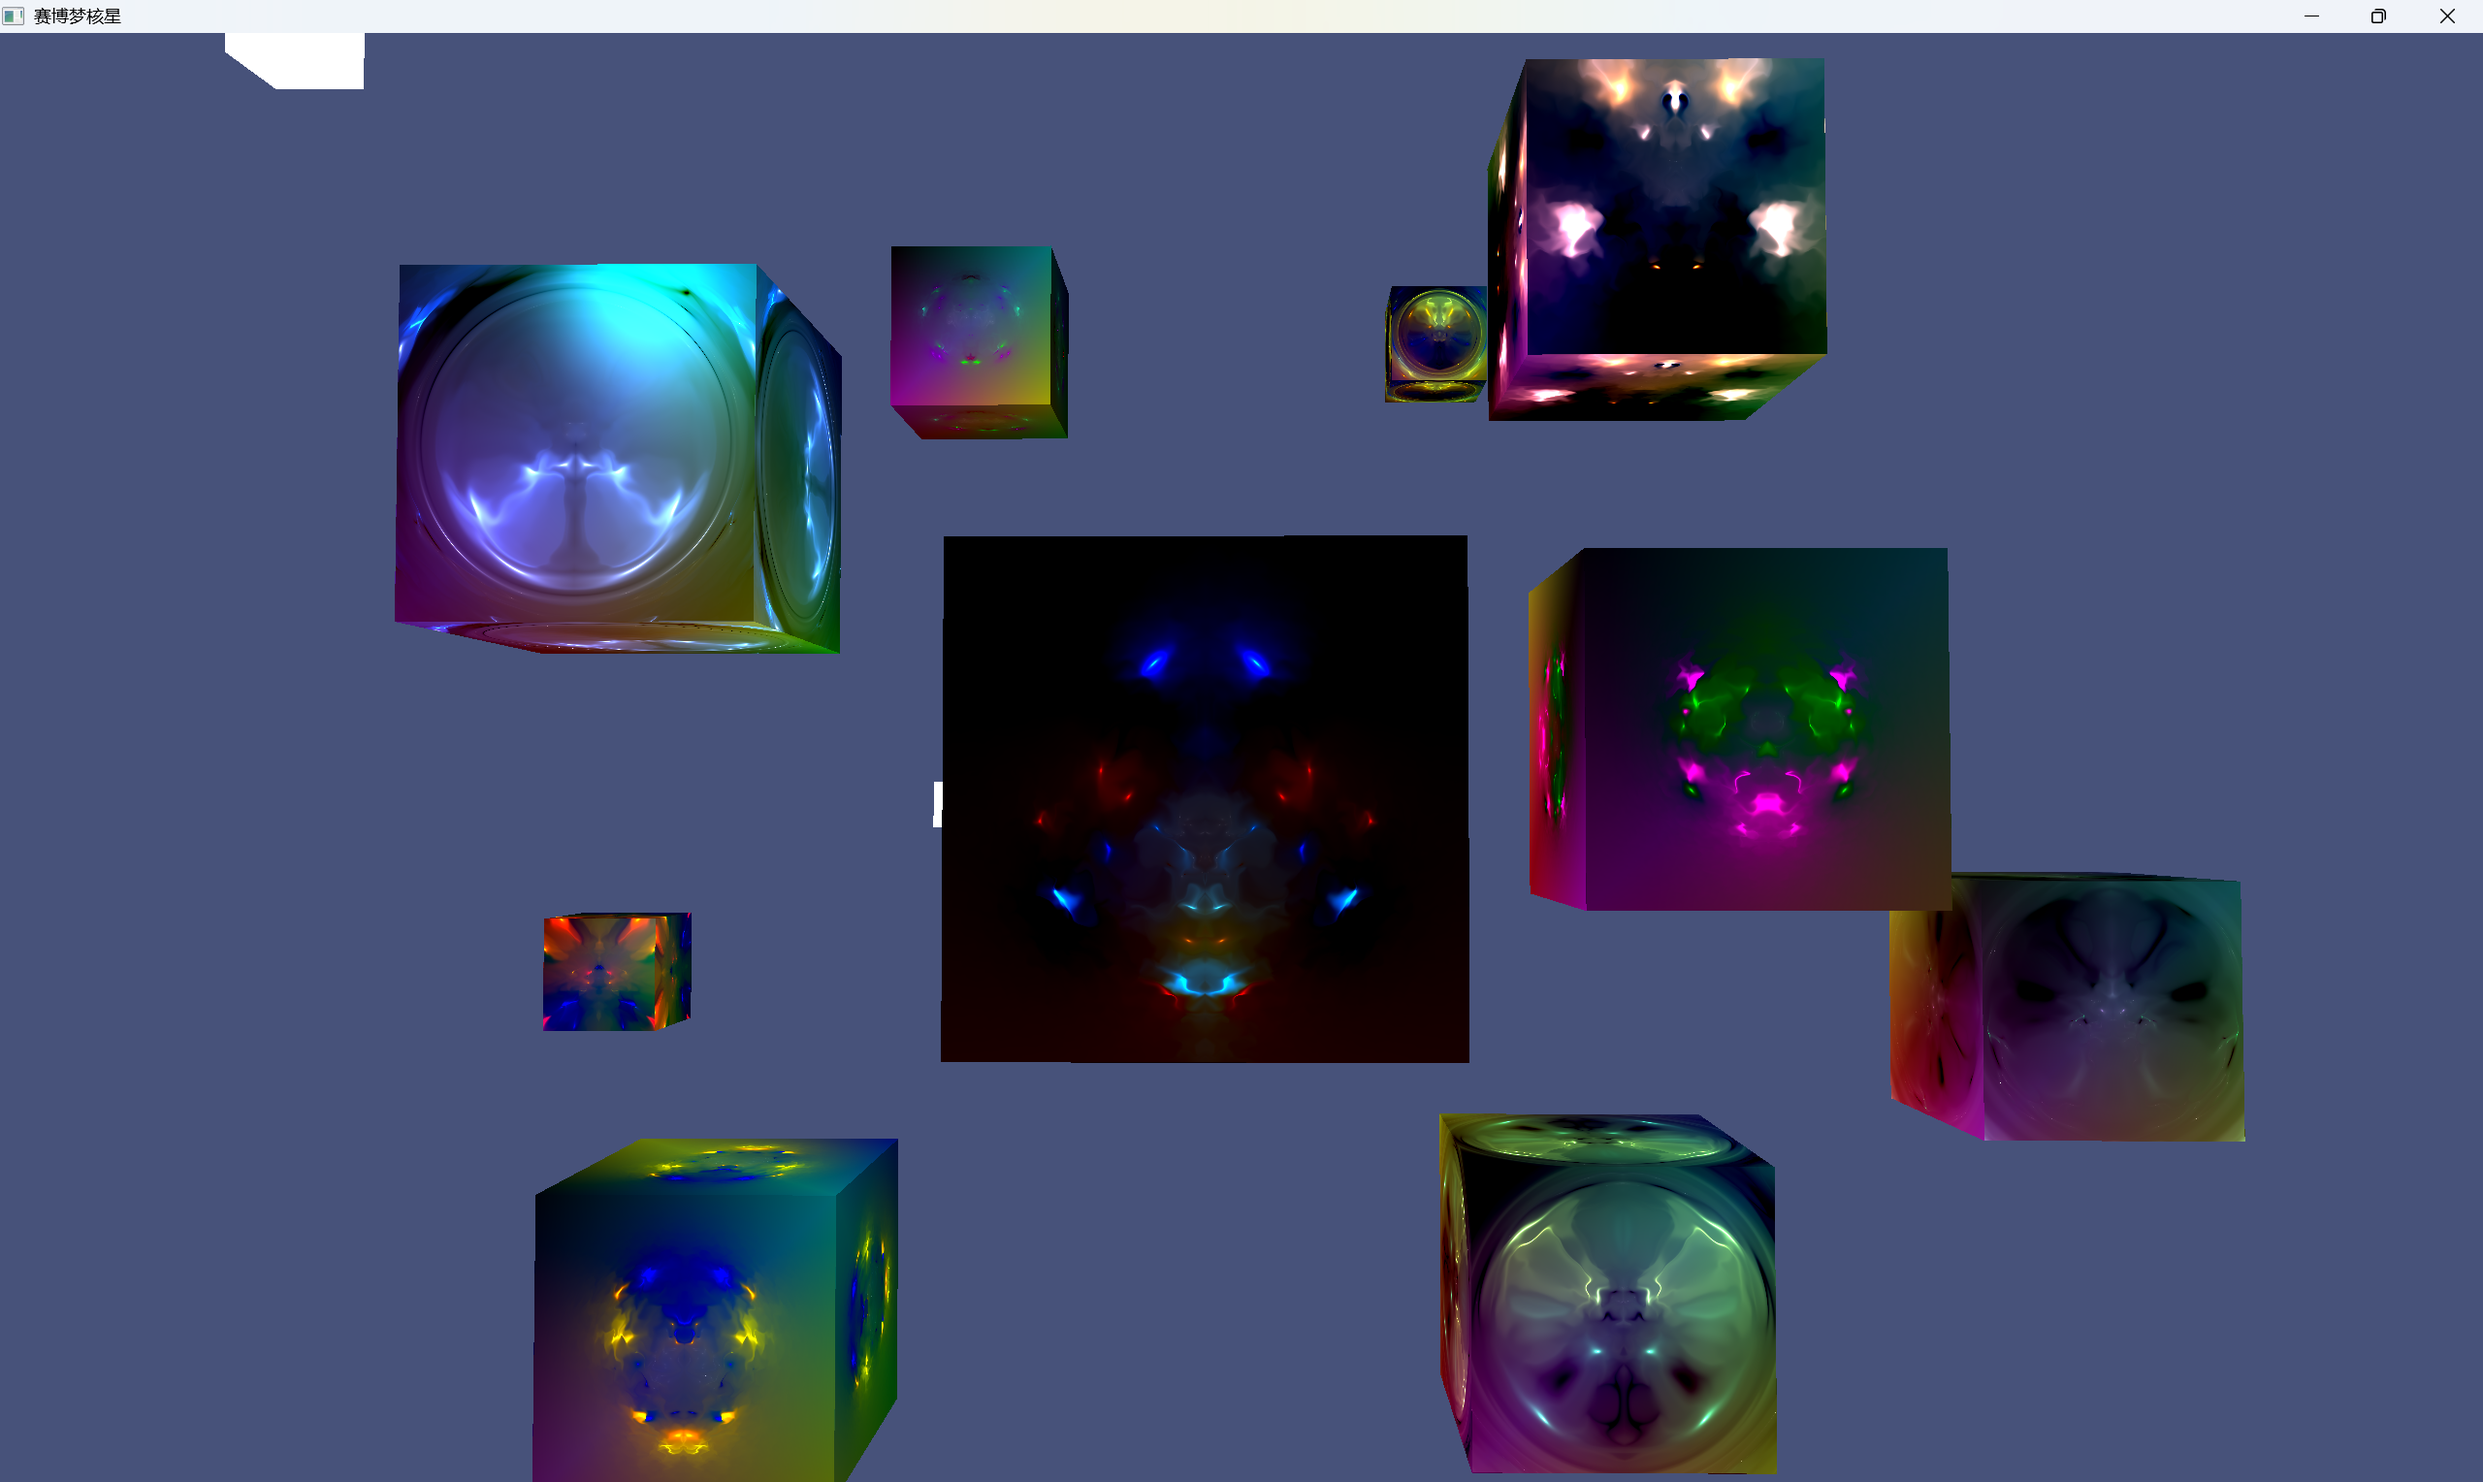
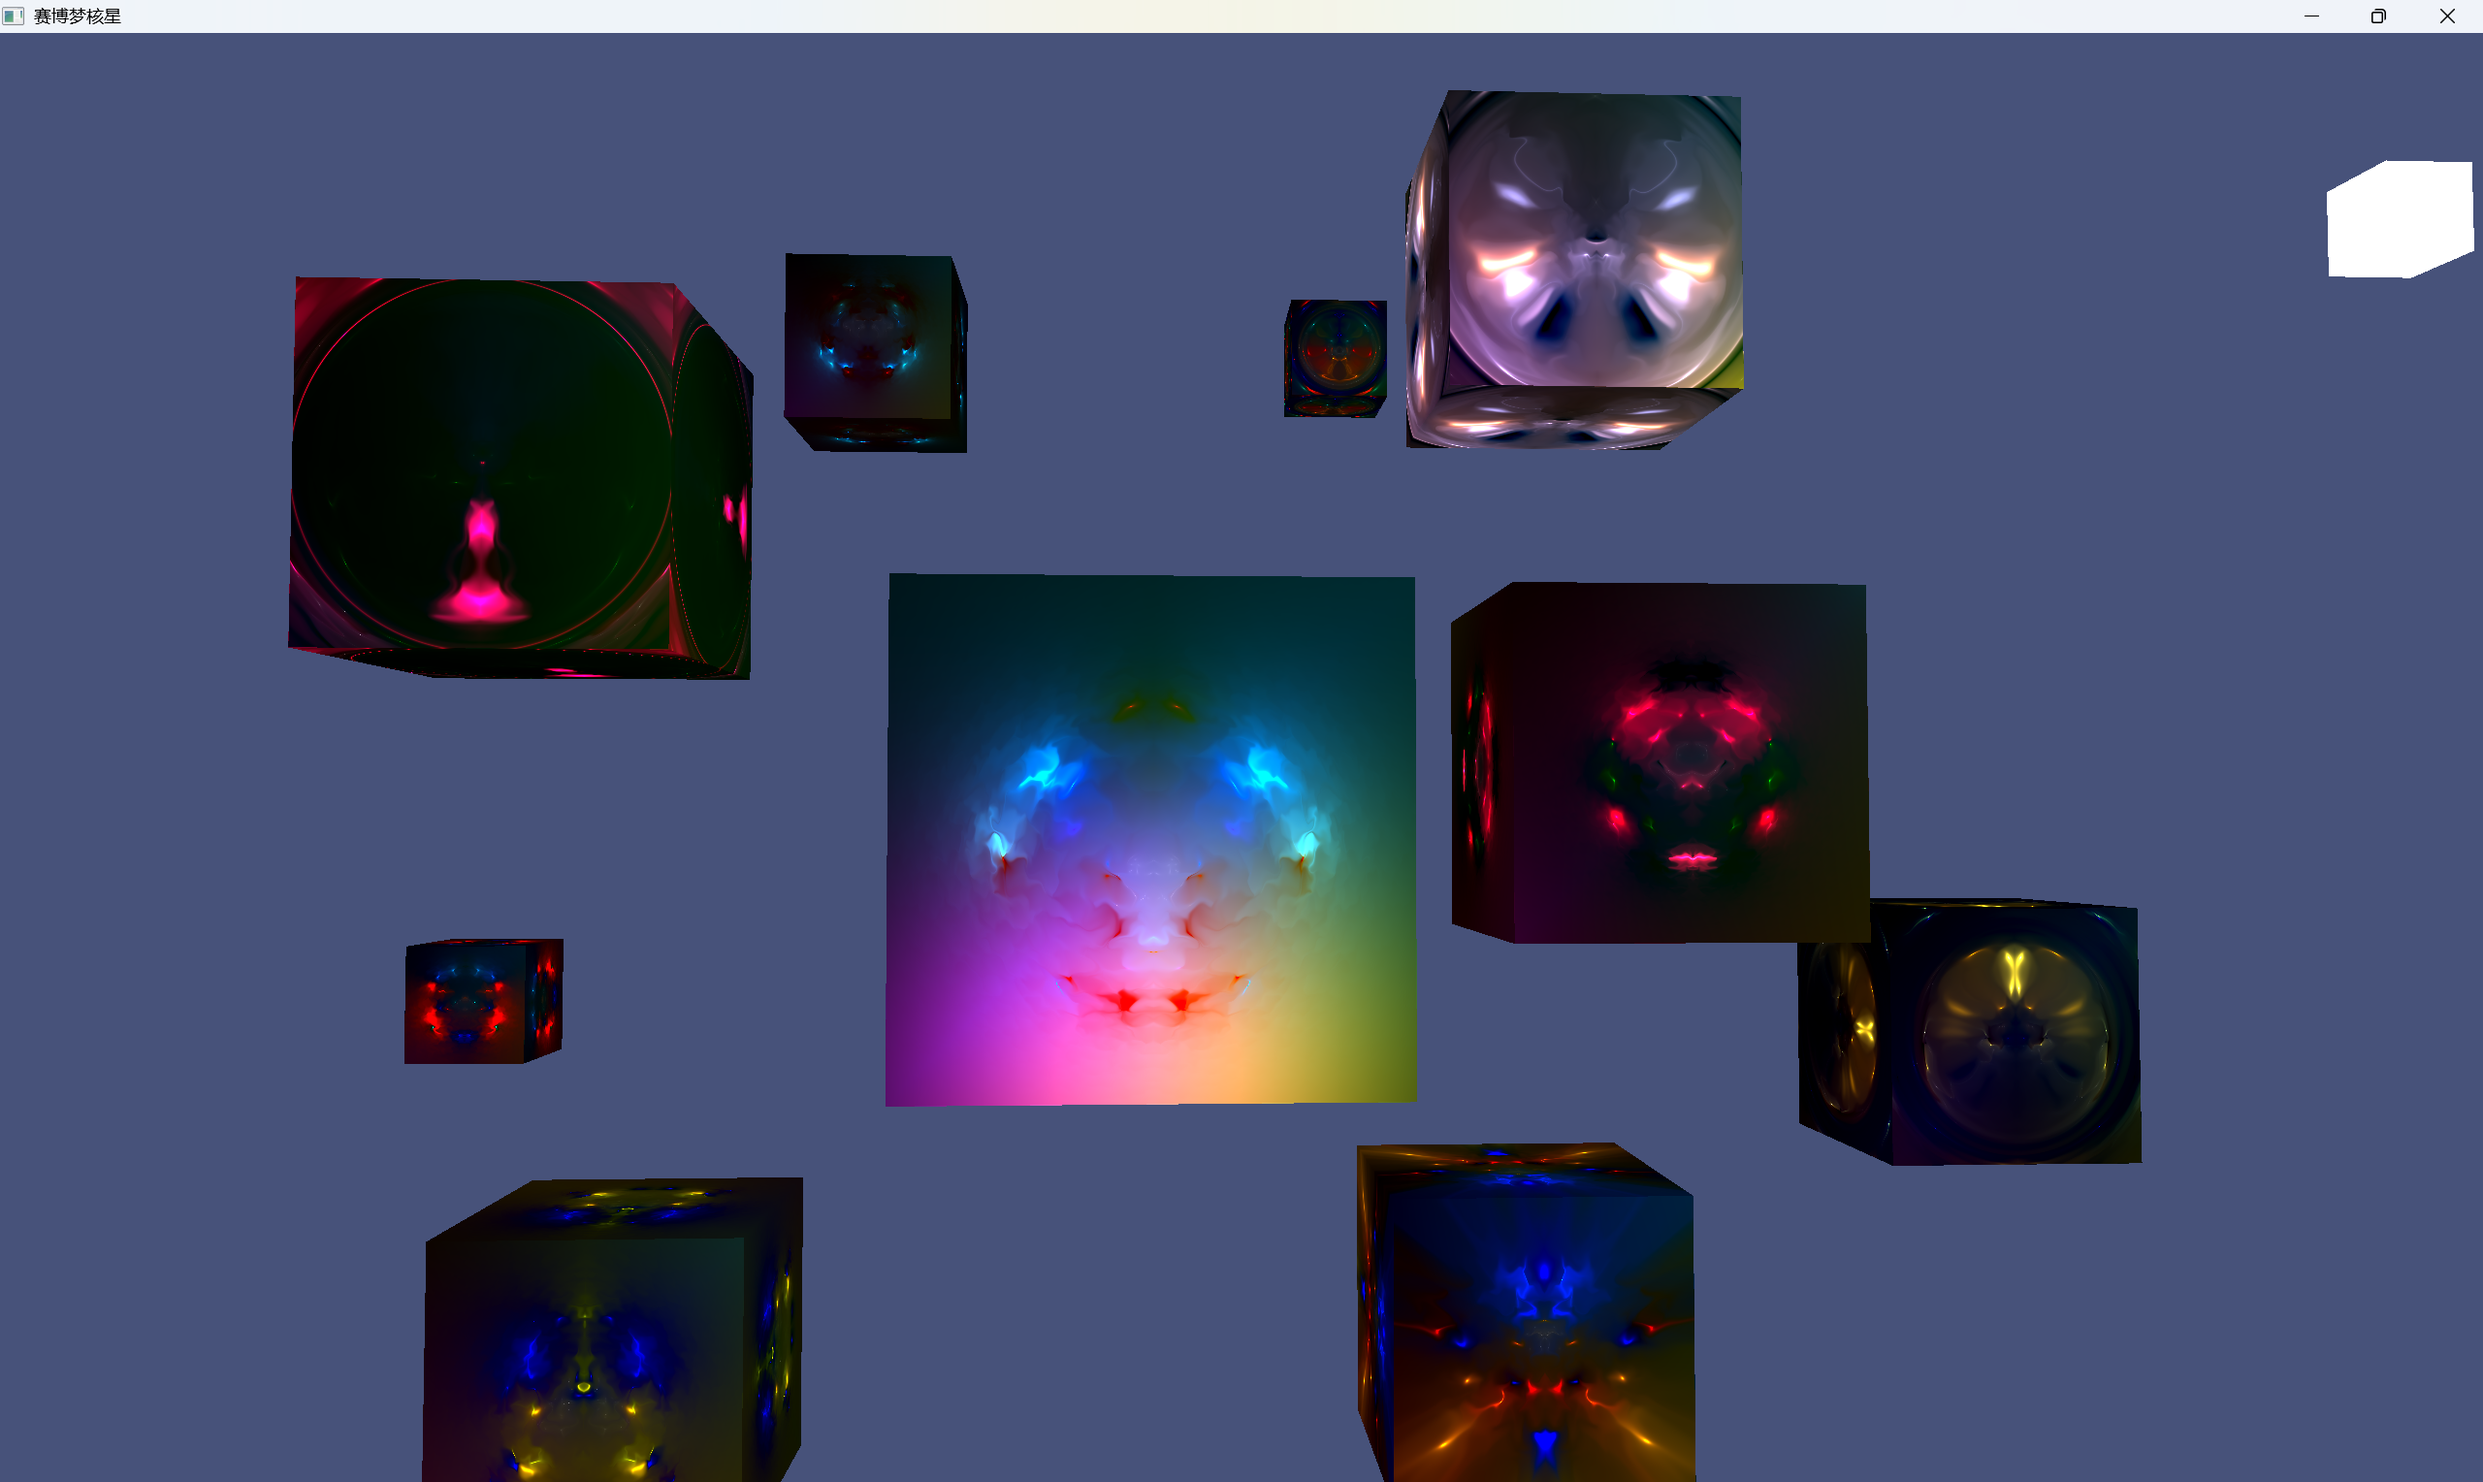
adjust ambient & diffuse values

diff --git a/OpenGL/src/Application.cpp b/OpenGL/src/Application.cpp
@@ -224,8 +224,8 @@ int main(void) {
 			Cube.setFloat(("plight[" + ch + "].specular").c_str(), 1.0f);
 			Cube.setVec3(("plight[" + ch + "].K").c_str(), 1.0f, 0.045f, 0.0075f);
 		}
-		Cube.setFloat("material.ambient", 0.1f);
-		Cube.setFloat("material.diffuse", 0.5f);
+		Cube.setFloat("material.ambient", 0.0f);
+		Cube.setFloat("material.diffuse", 0.2f);
 		Cube.setFloat("material.specular", 3.0f);
 		Cube.setFloat("material.shininess", 32.0f);
 		/* draw cubes */
